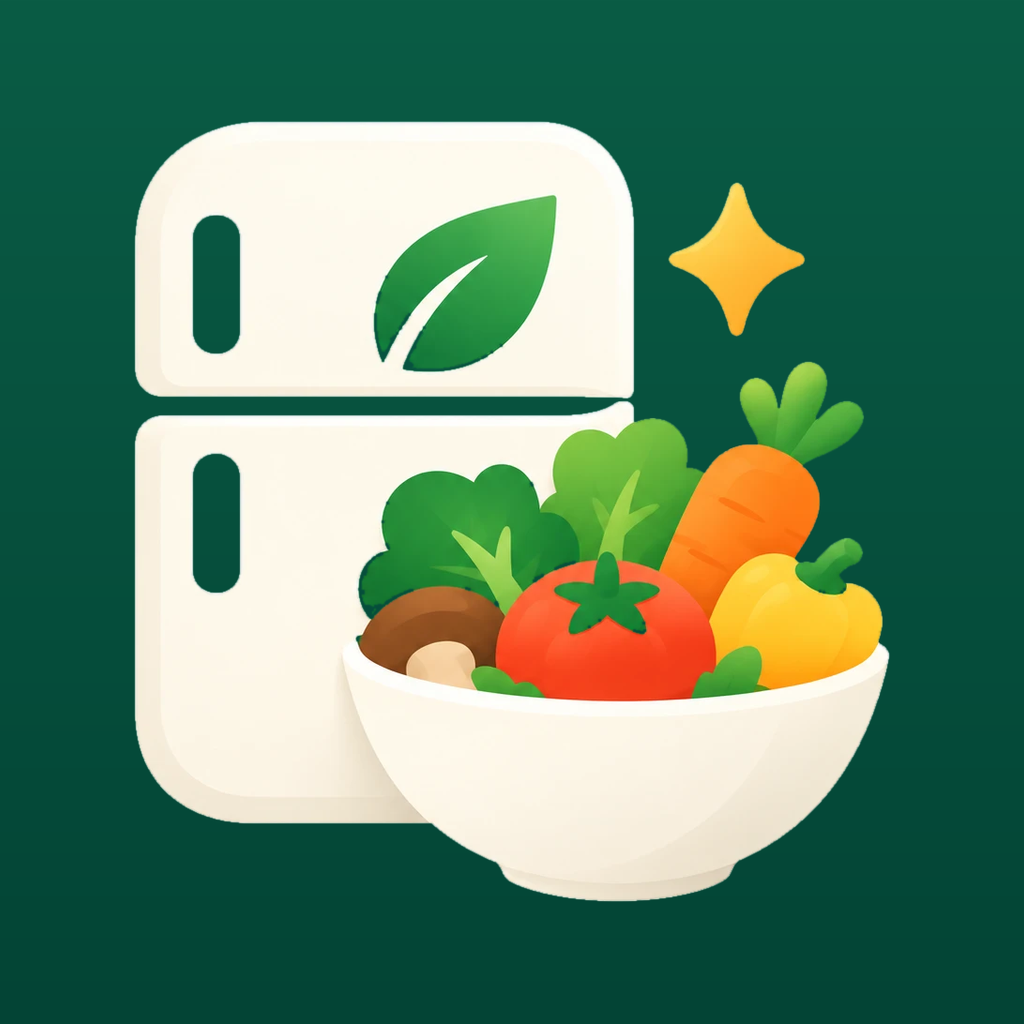
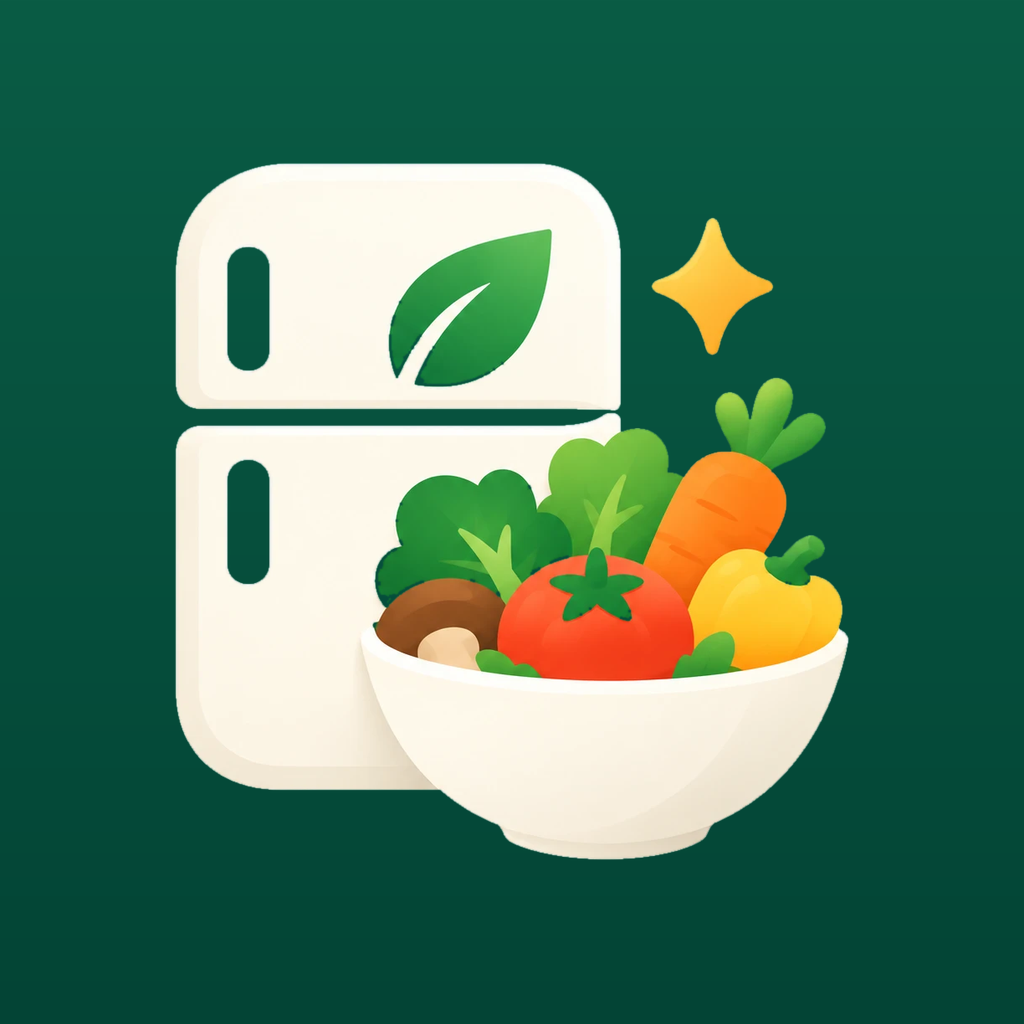
feat: 앱 아이콘 안 그림을 조금 줄여 여백 주기 (74% → 66%, 적응형 48% → 42%)
Claude-Session: https://claude.ai/code/session_0167vu71muFPXDHPYQVLqW5L

Changed region(s): [[0.125, 0.0938, 0.875, 0.9062]]

diff --git a/scripts/make-app-icon.py b/scripts/make-app-icon.py
@@ -30,8 +30,8 @@ BOTTOM = (3, 68, 53)
 MID = (6, 80, 61)  # #06503D
 S = 1024
 # 그림이 차지하는 폭 (캔버스 대비). 아이콘은 둥근 사각형 안, 적응형은 가운데 안전 영역 안에서 여유 있게.
-ICON_WIDTH = 0.74
-ADAPTIVE_WIDTH = 0.48
+ICON_WIDTH = 0.66
+ADAPTIVE_WIDTH = 0.42
 
 
 def foreground(art: Image.Image) -> Image.Image:
